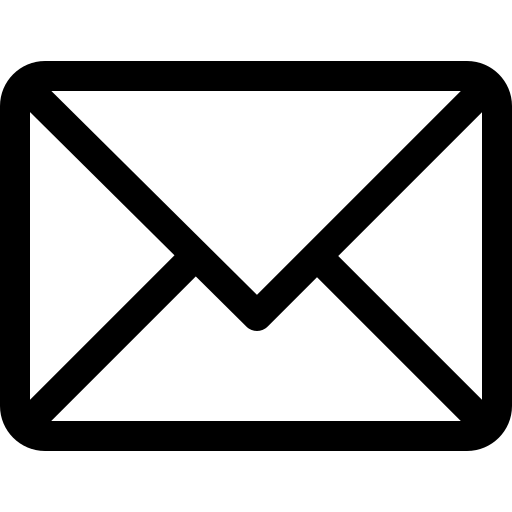
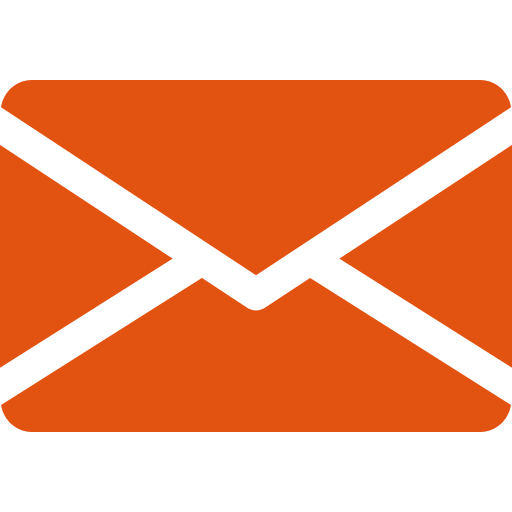
ícones alterados

diff --git a/index.css b/index.css
@@ -8,20 +8,20 @@ label {
 }
 input {
   outline: none;
-  border: 2px solid #ff6f00;
+  border: 2px solid #E25210
   border-radius: 1vh;
   height: 5vh;
-  background-color: #ff6f00;
+  background-color: #E25210
   color: #ffffff;
   width: 80%;
   text-align: center;
 }
 input:active {
   outline: none;
-  border: 2px solid #ff6f00;
+  border: 2px solid #E25210
   border-radius: 1vh;
   height: 5vh;
-  background-color: #ff6f00;
+  background-color: #E25210
   color: #ffffff;
   width: 80%;
   text-align: center;
@@ -41,7 +41,7 @@ input:active {
   padding-right: 2vw;
 }
 .header button {
-  background-color: #ff6f00;
+  background-color: #E25210
   color: #5B3314;
   font-size: large;
   border-radius: 10px;
@@ -49,7 +49,7 @@ input:active {
   border: none;
 }
 .header button:active {
-  background-color: #ff6f00;
+  background-color: #E25210
   color: #5B3314;
   font-size: large;
   border-radius: 10px;
@@ -133,12 +133,22 @@ input:active {
 
 .assinaturaIconeTd {
   display: block; 
-  background-color: rgb(226, 82, 16);
 }
 
 .assinaturaIconeImg {
   display: block; 
-  background-color: rgb(226, 82, 16);
+}
+
+.assinaturaTexto {
+  text-decoration: n);
+}
+
+.assinaturaIconeTd {
+  display: block; 
+}
+
+.assinaturaIconeImg {
+  display: block; 
 }
 
 .assinaturaTexto {

diff --git a/index.html b/index.html
@@ -134,7 +134,7 @@
                                   <td style="vertical-align: bottom;">
                                     <span class="assinaturaIconeTd">
                                       <img
-                                        src="https://solucaut.com.br/assinatura/img/internet.png" class="assinaturaIconeImg" width="13">
+                                        src="https://solucaut.com.br/assinatura/img/link.png" class="assinaturaIconeImg" width="13">
                                     </span>
                                   </td>
                                 </tr>
